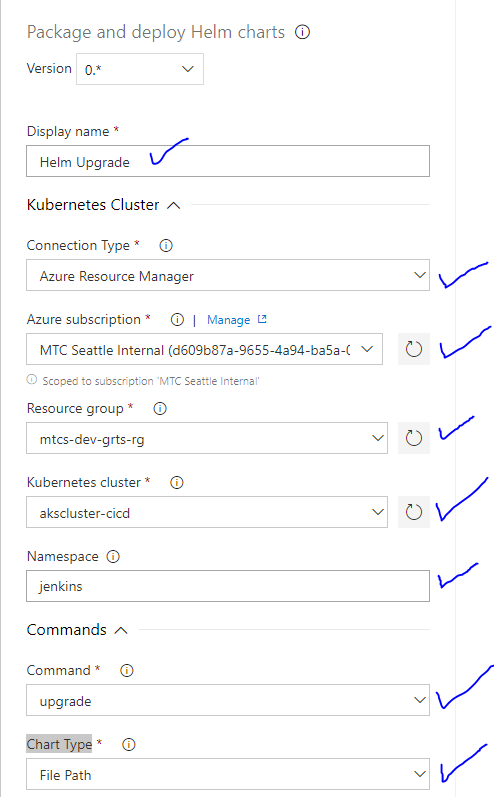
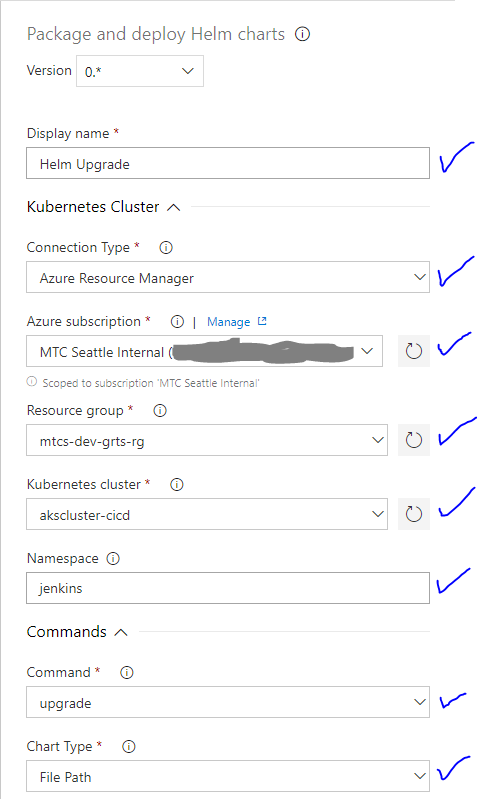
Updated Jenkins extension Readme doc and image

diff --git a/extensions/jenkins-ci-cd/README.md b/extensions/jenkins-ci-cd/README.md
@@ -39,7 +39,7 @@ In this section, we will implement a CI and CD pipeline in *Azure DevOps* in ord
 
    ![alt tag](./images/A-02.PNG)
 
-   In the **Select a source** page, select **GitHub**, specify a **Connection name** and use your credentials to authenticate to GitHub. You can use OAuth or a PAT Token to authenticate respectively.  Then select this GitHub repository (your forked repo.) and click on **Continue**.  See image below.
+   In the **Select a source** page, select **GitHub**, specify a **Connection name** and use your credentials to authenticate to GitHub. You can use OAuth or a PAT Token to authenticate to GitHub.  Then select this GitHub repository (your forked repo.) and click on **Continue**.  See image below.
 
    ![alt tag](./images/A-03.PNG)
 
@@ -47,7 +47,7 @@ In this section, we will implement a CI and CD pipeline in *Azure DevOps* in ord
 
    ![alt tag](./images/A-04.PNG)
 
-   Under **Add tasks**, search for text *Task* **Docker Compose** and add it to the CI pipeline.  This task will be used to build a *Custom* Jenkins image with Jenkins Plugins, Docker client and Kubernetes CLI installed on it.  Review the **Dockerfile** in the GitHub repository to understand what binaries will be built into to the container image (contents of the image).
+   Under **Add tasks**, search for text **Docker Compose** and add this task to the CI pipeline.  This task will be used to build a *Custom* Jenkins container image containing Jenkins Plugins, Docker client and Kubernetes CLI installed on it.  Review the **Dockerfile** in the GitHub repository to view which binaries will be installed in the container image once it is built.
 
    ![alt tag](./images/A-05.PNG)
 
@@ -55,15 +55,19 @@ In this section, we will implement a CI and CD pipeline in *Azure DevOps* in ord
 
    ![alt tag](./images/A-06.PNG)
 
-   Add another **Docker Compose** task to the CI pipeline.  This task will be used to push the built custom Jenkins image to the ACR (Azure Container Repository) which was provisioned in the parent project labs.  Click on this task in the left panel and update all field values marked with a **blue** checkmark as shown in the screenshot below.
+   Add another **Docker Compose** task to the CI pipeline.  This task will be used to push the built custom Jenkins container image into the ACR (Azure Container Repository).   This ACR should have been provisioned in the parent project labs.  Click on this task in the left panel and update all field values marked with a **blue** checkmark as shown in the screenshot below.
 
    ![alt tag](./images/A-07.PNG)
 
-   Search for task **Copy files** and add it to the CI pipeline. Configure this task as shown in the screenshot below.
+   Search for task **Copy files** and add it to the CI pipeline.  This task will be used to copy the Helm chart folder to a staging directory.
+
+   Configure this task as shown in the screenshot below.
 
    ![alt tag](./images/A-19.PNG)
 
-   Search for task **Publish Build Artifacts**, add it to the CI pipeline and configure the task as shown in the images below.
+   Search for task **Publish Build Artifacts** and add it to the CI pipeline.  This task will be used to publish the Helm chart folder from the staging directory to a **drop** location which would be accessible in the CD (Release) pipeline.
+
+   Configure the task as shown in the images below.
 
    ![alt tag](./images/A-20.PNG)
 
@@ -99,11 +103,11 @@ In this section, we will implement a CI and CD pipeline in *Azure DevOps* in ord
 
    With this configuration, the CD pipeline will be triggered and executed when the CI pipeline completes OK.
 
-   Under **Stages**, click on **1 job, 0 task**.  Then click on **Agent job** and make sure the **Agent pool* which was created in the parent project lab is selected as shown in the image below.
+   Under **Stages**, click on **1 job, 0 task**.  Then click on **Agent job** and make sure the **Agent pool** which was created in the parent project lab (Default) is selected as shown in the image below.
 
    ![alt tag](./images/A-12.PNG)
 
-   Click on ** + ** besides **Agent job** to add a new release *Task*. Search for text **Helm** in the search field besides **Add tasks**.  And **Add** the **Helm tool installer** task.
+   Click on the + sign besides **Agent job** to add a new release *Task*. Search for text **Helm** in the search field besides **Add tasks**.  And **Add** the **Helm tool installer** task.
 
    ![alt tag](./images/A-14.PNG)
 
@@ -111,11 +115,11 @@ In this section, we will implement a CI and CD pipeline in *Azure DevOps* in ord
 
    ![alt tag](./images/A-15.PNG)
 
-   Click on ** + ** besides **Agent job** and search for text **Helm** again.  Add the task named **Package and deploy Helm charts** to the release pipeline.  See screenshot below.
+   Click on the + sign besides **Agent job** and search for text **Helm** again.  Add the task named **Package and deploy Helm charts** to the release pipeline.  See screenshot below.
 
    ![alt tag](./images/A-16.PNG)
 
-   Click on the **Helm** task you just added and configure values as shown in the screenshot below.  Provide correct values for all fields marked with a blue tick mark.
+   Click on the **Helm** task you just added and configure values as shown in the screenshots below.  Provide correct values for all fields marked with a blue tick mark.
 
    ![alt tag](./images/A-22.PNG)
 
@@ -123,7 +127,7 @@ In this section, we will implement a CI and CD pipeline in *Azure DevOps* in ord
 
    After updating all values, click on **Save**.  You can now run the CD pipeline by creating a new **Release** and deploying it or by re-running the **CI** (Build) pipeline.
 
-   Proceed with the Section B when the CD pipeline completes OK.  See screenshot below.
+   Proceed with Section [B] when the CD pipeline completes OK.  See screenshot below.
 
    ![alt tag](./images/A-24.PNG)
 
